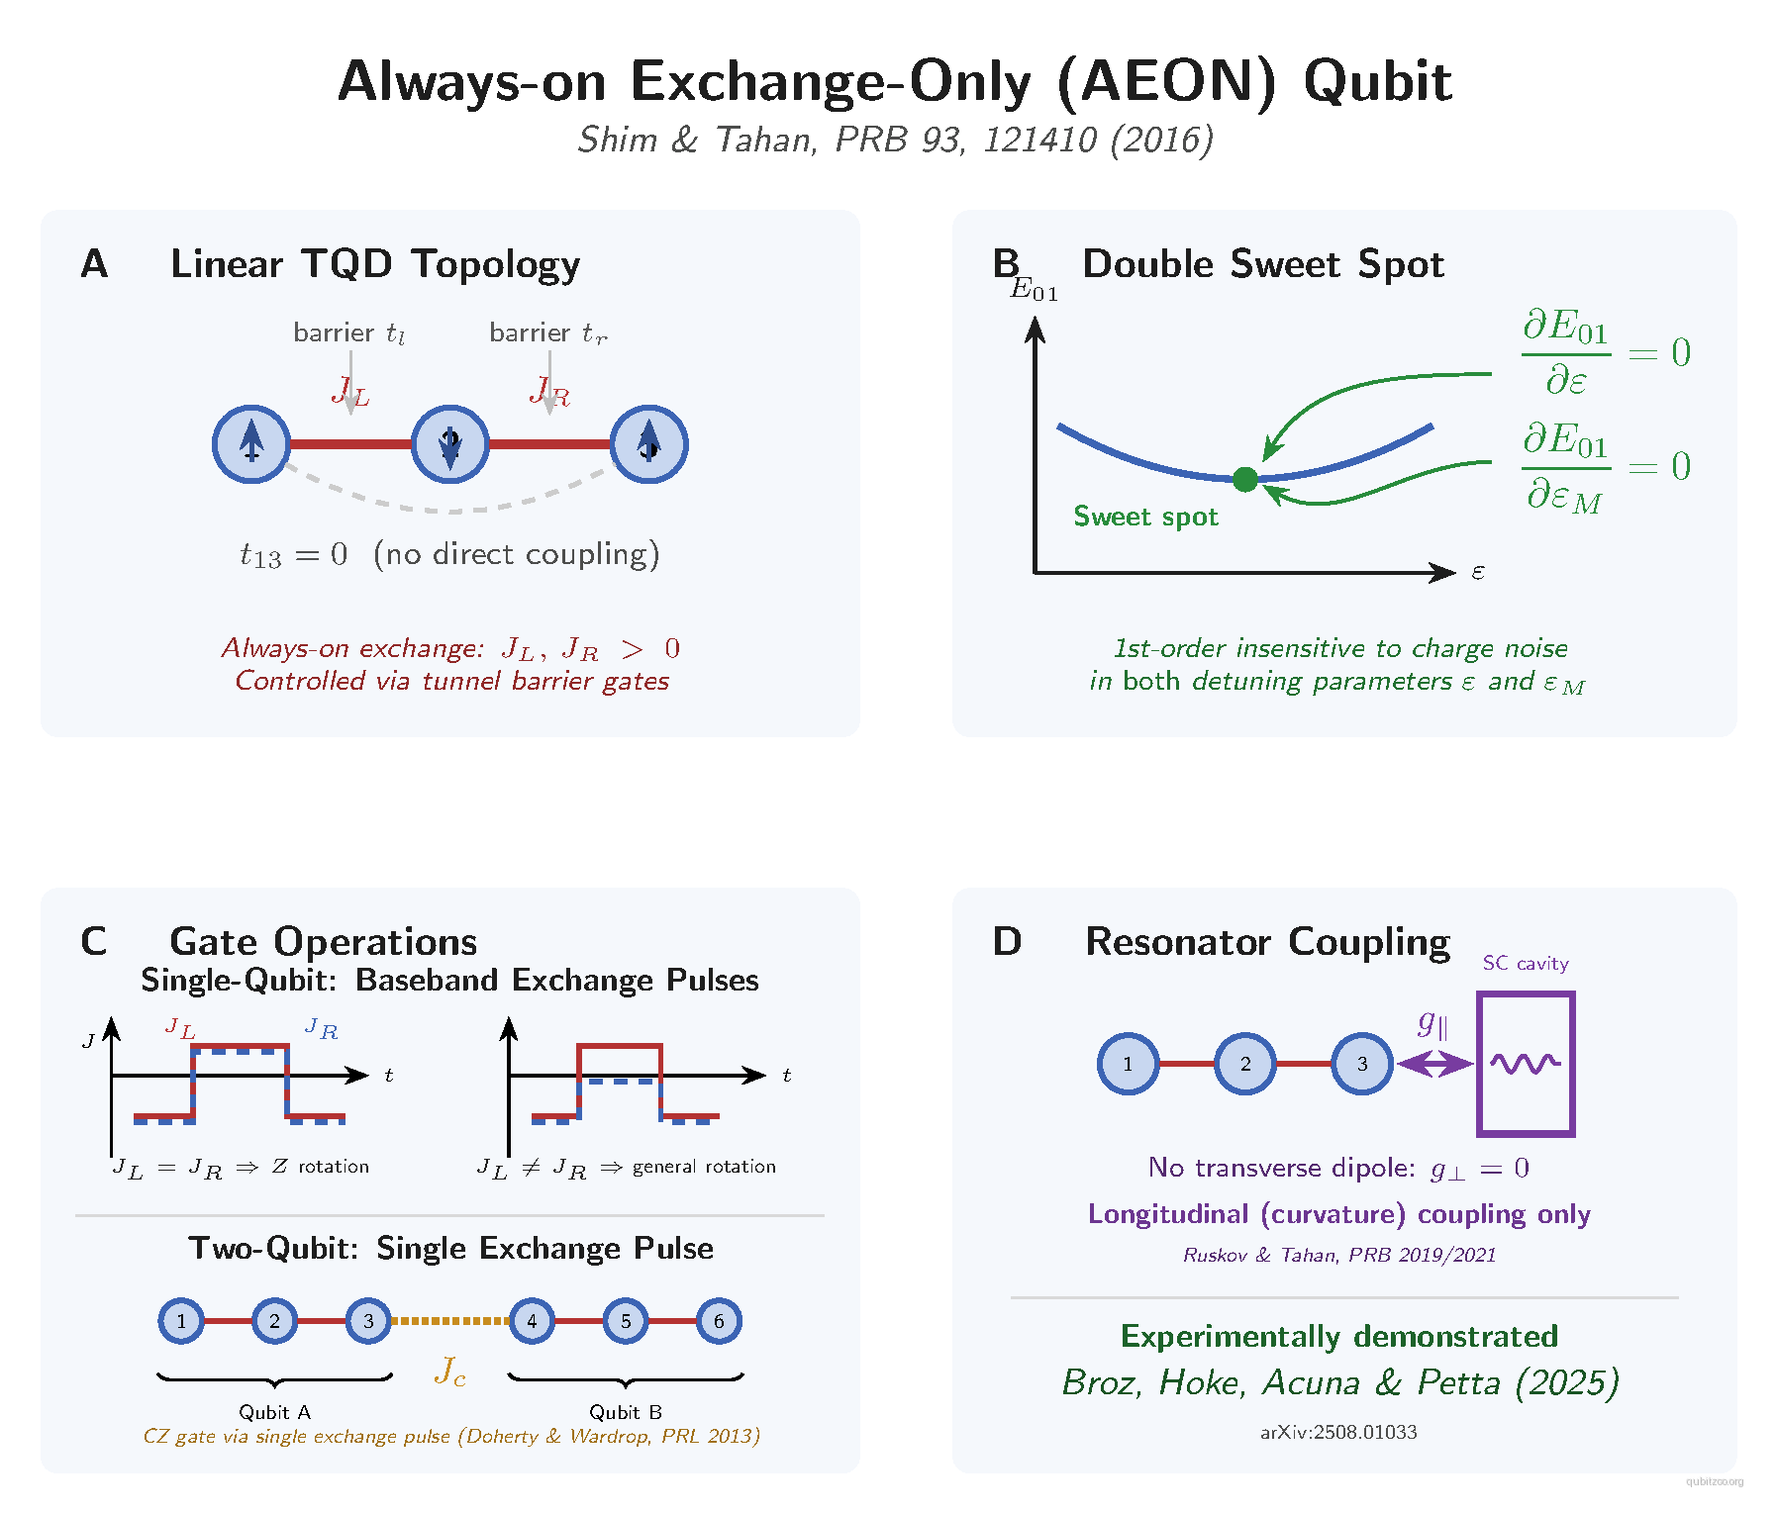
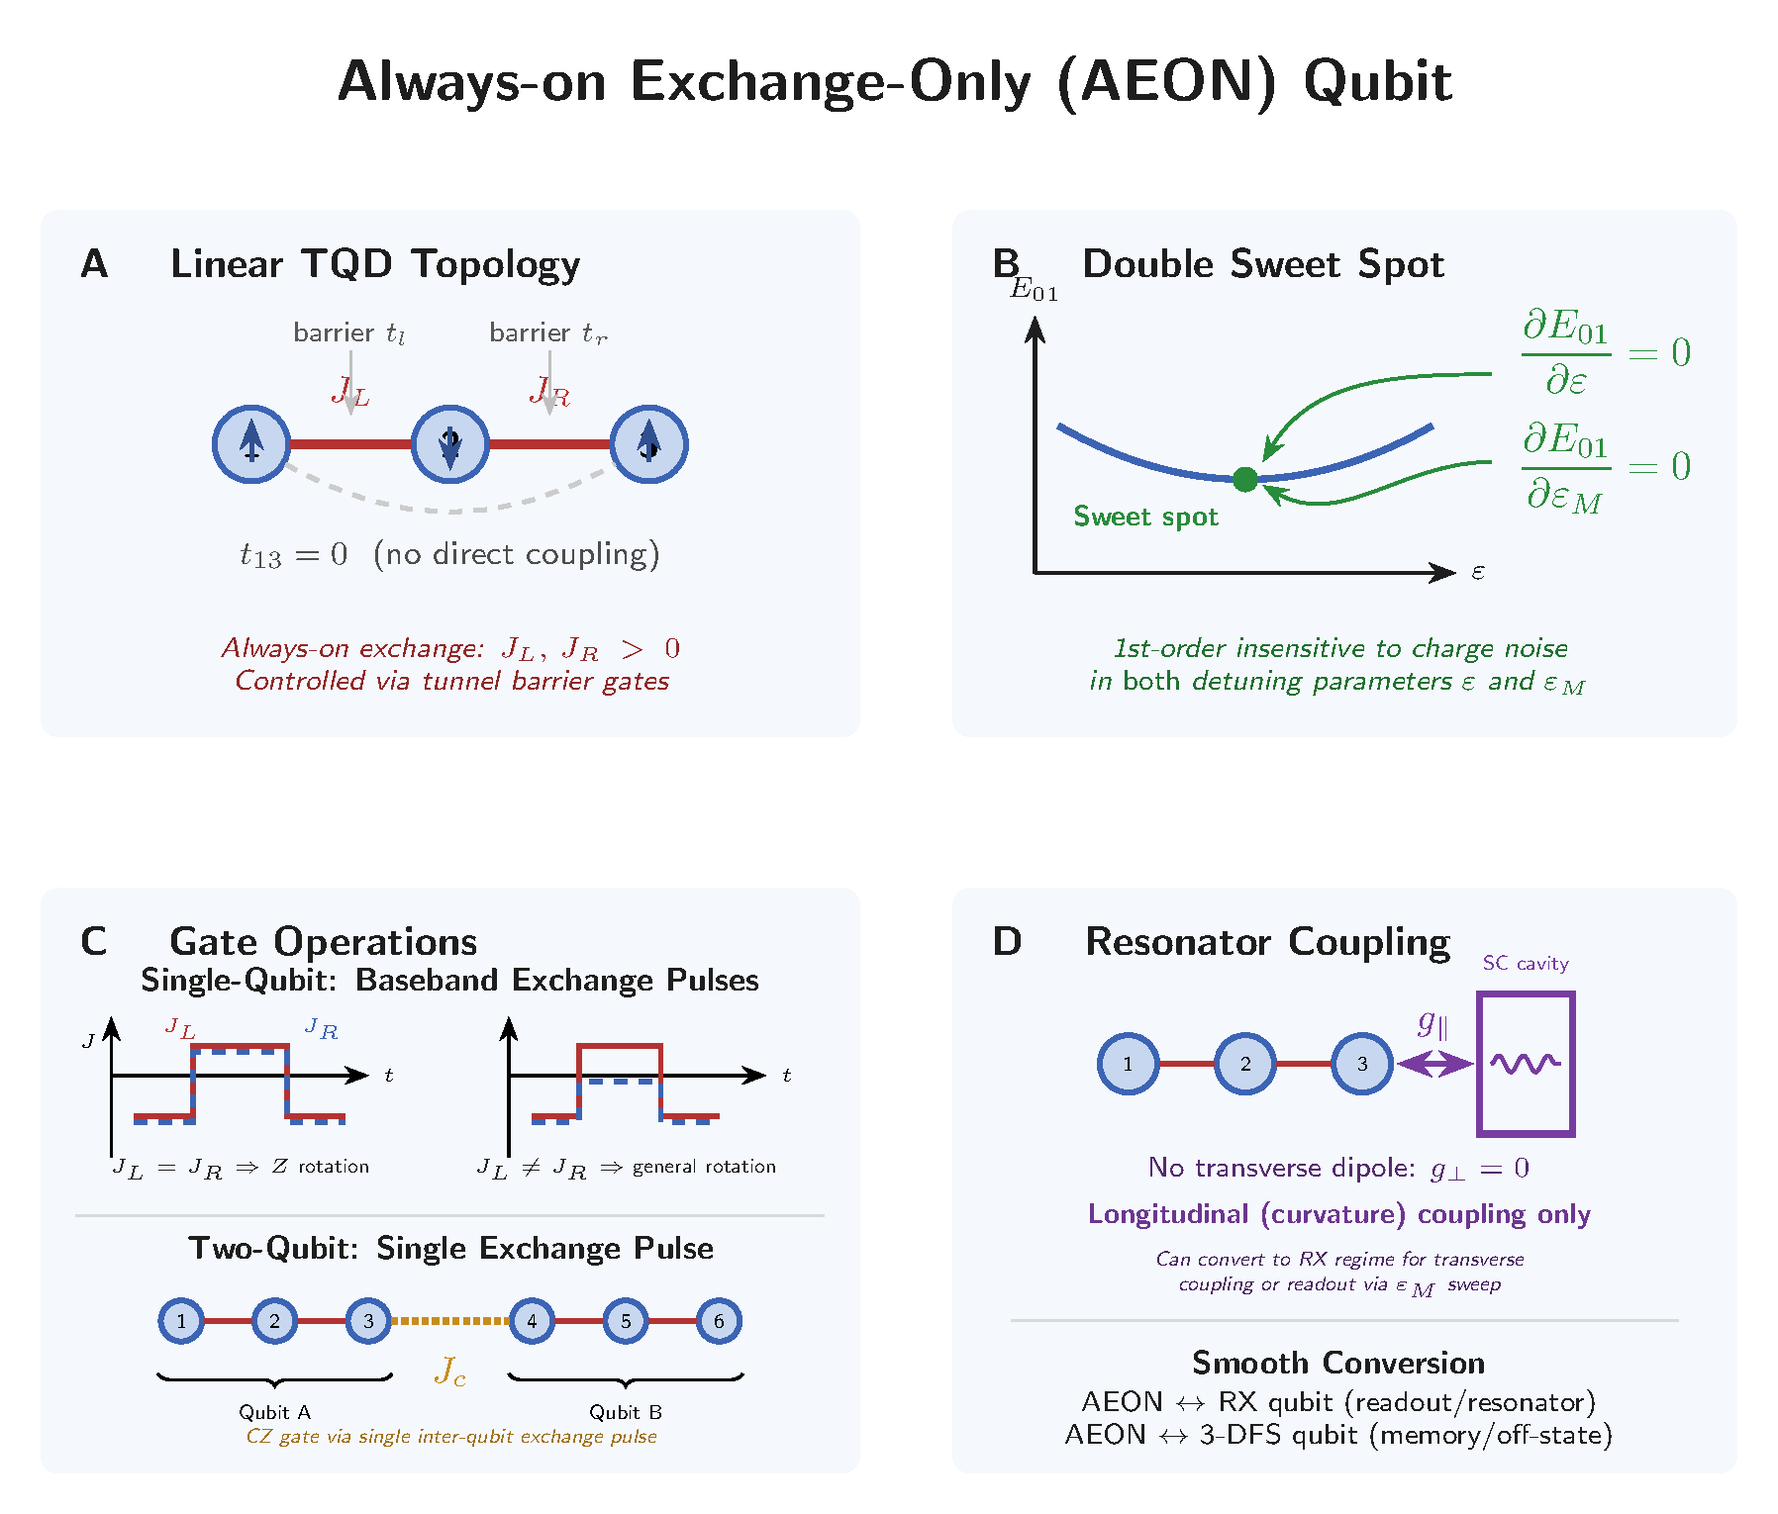
zoo: sync AEON rewrite — clean figure + expanded entry

Changed region(s): [[0.5924, 0.8294, 0.9042, 0.9523], [0.1871, 0.9216, 0.2183, 0.9523]]

diff --git a/content/Zoo/aeon-qubit.md b/content/Zoo/aeon-qubit.md
@@ -20,48 +20,106 @@ extracted_by: airtable-seed
 verified_by: scibok-manual-2026-03-18
 ---
 
-
-
-Always-on Exchange Only (AEON) is a seed entry imported from the legacy Qubit Zoo Airtable dataset.
-
-
 ## Figure
 
 ![[aeon-qubit-figure.png]]
 
 ## Description
 
-An always-on, exchange-only qubit encoded in three localized semiconductor spins arranged in a **linear triple quantum dot** (TQD) array. The two exchange couplings $J_L$ (dots 1–2) and $J_R$ (dots 2–3) are kept always on; there is **no direct coupling** between dots 1 and 3 ($t_{13} = 0$). The AEON qubit offers a true **double sweet spot** — first-order insensitivity to charge noise in *both* detuning parameters $\varepsilon$ and $\varepsilon_M$ simultaneously. Both single- and two-qubit gate operations can be performed using only baseband (DC) exchange pulses while maintaining this sweet spot. The qubit can be smoothly converted to other three-spin encoded qubits (RX, 3-DFS) for readout, coupling to a resonator, or memory.
+The Always-on Exchange-Only (AEON) qubit is a three-spin encoded qubit in a **linear triple quantum dot** (TQD) array where the nearest-neighbor exchange couplings $J_L$ (dots 1–2) and $J_R$ (dots 2–3) are kept permanently on. There is **no direct tunnel coupling** between the outer dots ($t_{13} = 0$). The qubit is encoded in the $S_\text{tot} = 1/2$ subspace of three singly-occupied quantum dots in the (1,1,1) charge configuration.
+
+The defining feature of the AEON qubit is its **double sweet spot**: the qubit frequency $E_{01}$ is first-order insensitive to charge noise in *both* independent detuning parameters $\varepsilon$ (dot 1 vs. dot 3) and $\varepsilon_M$ (dot 2 vs. average of dots 1 and 3) simultaneously. Crucially, the sweet spot position depends only on the Coulomb energies — not on the tunnel couplings $t_l$ and $t_r$ — so gates can be performed by tuning barrier gates while remaining at the sweet spot throughout.
+
+All single-qubit operations use **baseband (DC) exchange pulses** — no microwave drive is required. Two-qubit entangling gates between adjacent AEON qubits can be implemented with a **single exchange pulse**, a dramatic simplification over the 18+ sequential pairwise pulses needed for the original 3-DFS exchange-only encoding.
+
+At the sweet spot, the AEON qubit has **no transition dipole moment** ($g_\perp = 0$), meaning it does not couple transversely to a superconducting resonator. Long-range coupling requires **longitudinal (curvature) coupling** to a cavity, or adiabatic conversion to the RX qubit regime where transverse coupling is available.
+
+The qubit can be smoothly interconverted with other three-spin encodings: the **RX qubit** (for initialization, readout, and resonator coupling) and the **3-DFS exchange-only qubit** (for a true off-state/memory with all exchange couplings turned off).
 
 
 ## Hamiltonian
 
-The AEON qubit is described by a Hubbard model for a linear TQD. In the qubit subspace ($S_\text{tot} = 1/2$, $S_\text{tot}^z = 1/2$), the effective Hamiltonian reduces to an exchange-coupled Heisenberg model with **only nearest-neighbor couplings**:
+The AEON qubit is described by a Hubbard model for a linear TQD with only nearest-neighbor tunneling ($t_{13} = 0$). In the qubit subspace ($S_\text{tot} = 1/2$, $S_\text{tot}^z = 1/2$), the effective Hamiltonian reduces to:
 
 $$H_\text{eff} = J_L\,\mathbf{S}_1\!\cdot\!\mathbf{S}_2 + J_R\,\mathbf{S}_2\!\cdot\!\mathbf{S}_3$$
 
-where $J_L = 2t_l^2(\tilde{U}_1 + \tilde{U}_2')/f_l(\varepsilon, \varepsilon_M)$ and $J_R = 2t_r^2(\tilde{U}_2 + \tilde{U}_3)/f_r(\varepsilon, \varepsilon_M)$. Note: **$J_{13} = 0$** (no direct exchange between dots 1 and 3).
+where $J_L = 2t_l^2(\tilde{U}_1 + \tilde{U}_2')/f_l(\varepsilon, \varepsilon_M)$ and $J_R = 2t_r^2(\tilde{U}_2 + \tilde{U}_3)/f_r(\varepsilon, \varepsilon_M)$, with $\tilde{U}_i$ the Coulomb energy changes for double occupancy of dot $i$. **No $J_{13}$ term** appears.
 
 In the two-state qubit basis $\{|0_Q\rangle, |1_Q\rangle\}$:
 
 $$H_\text{eff} = -\frac{J}{2}\sigma_z - \frac{\sqrt{3}\,j}{2}\sigma_x$$
 
-where $J = (J_L + J_R)/2$ and $j = (J_L - J_R)/2$.
+where $J = (J_L + J_R)/2$ and $j = (J_L - J_R)/2$. The qubit energy gap is $E_{01} = \sqrt{J^2 + 3j^2} = \sqrt{J_L^2 + J_R^2 - J_L J_R}$.
 
-**Double sweet spot** — the qubit energy gap $E_{01} = \sqrt{J^2 + 3j^2}$ satisfies:
+### Double sweet spot
 
-$$\frac{\partial E_{01}}{\partial \varepsilon} = 0 \quad \text{and} \quad \frac{\partial E_{01}}{\partial \varepsilon_M} = 0$$
+The sweet spot conditions $\partial E_{01}/\partial\varepsilon = 0$ and $\partial E_{01}/\partial\varepsilon_M = 0$ yield:
 
-simultaneously, making the qubit first-order insensitive to charge noise in both detuning parameters. Crucially, the sweet spot position is **independent of the tunnel couplings** $t_l$ and $t_r$, enabling gate operations while remaining at the sweet spot.
+$$\varepsilon_\text{ss} = \tfrac{1}{4}(-\tilde{U}_1 + \tilde{U}_2' - \tilde{U}_2 + \tilde{U}_3), \qquad \varepsilon_{M,\text{ss}} = \tfrac{1}{4}(\tilde{U}_1 - \tilde{U}_2' - \tilde{U}_2 + \tilde{U}_3)$$
 
-## Motivation
+These depend only on Coulomb energies, **not** on $t_l$ or $t_r$ — enabling full gate control while remaining at the sweet spot.
 
-A spin-based qubit offering a **double sweet spot** to charge noise that enables:
 
-- **All single-qubit gates** via baseband exchange pulses at the full sweet spot (tuning barrier gates $t_l$, $t_r$; no microwave pulses needed)
-- **Two-qubit gates in a single exchange pulse** (Doherty & Wardrop 2013), versus 18+ serial pulses for the original 3-DFS exchange-only encoding
-- **No transition dipole moment** — the AEON qubit at its sweet spot has zero transverse coupling to a resonator ($g_\perp = 0$), requiring longitudinal (curvature) coupling instead (Ruskov & Tahan 2019, 2021)
-- Smooth conversion to RX or 3-DFS qubit encodings for readout, resonator coupling, or memory
+## Single-Qubit Gates
+
+All single-qubit rotations are performed via **baseband (DC) voltage pulses** on the tunnel barrier gates, modulating $J_L$ and $J_R$ simultaneously while remaining at the double sweet spot:
+
+- **$Z$ rotation**: Symmetric exchange ($J_L = J_R$, i.e., $j = 0$) → precession around $\hat{z}$
+- **General rotations**: Asymmetric exchange ($J_L \neq J_R$) → rotation around an axis in the $xz$-plane. Combined with $Z$, this gives universal single-qubit control
+- **Pauli $X$**: Can be decomposed as $X = R_{\hat{n}}(\pi) \cdot Z \cdot R_{\hat{n}}(\pi)$ with $\hat{n} = -(\hat{x} + \hat{z})/\sqrt{2}$, achieved with $t_l = (\sqrt{6} + \sqrt{2})t_r/2$
+
+No microwave pulses are needed — this is purely baseband, all-electrical control.
+
+
+## Two-Qubit Gates
+
+Two AEON qubits in a linear array (dots 1–2–3–4–5–6) are coupled via the inter-qubit exchange $J_c$ between neighboring dots (e.g., dots 3 and 4). With intra-qubit couplings always on, the effective inter-qubit Hamiltonian in the weak coupling regime ($J_c \ll J^{(A)}, J^{(B)}$) is:
+
+$$H_c = \delta J_z (\sigma_z^A + \sigma_z^B)/2 + J_{zz}\,\sigma_z^A\sigma_z^B + J_\perp(\sigma_x^A\sigma_x^B + \sigma_y^A\sigma_y^B)$$
+
+with all coefficients proportional to $J_c$. For the linear geometry, $\delta J_z / J_c = J_{zz}/J_c = 1/36$ and $J_\perp / J_c = -1/24$ when $J^{(A)} \approx J^{(B)}$.
+
+A **CPHASE/CZ gate** can be implemented with a single exchange pulse — requiring $\int J_{zz}(t)\,dt = \pi/4$. Estimated gate times range from ~20 ns (butterfly geometry with spin swaps) to a few hundred ns (linear geometry with conservative $J_c \sim 10$ MHz). This is a dramatic improvement over the 18+ sequential pairwise pulses required for the original 3-DFS encoding.
+
+The inter-qubit sweet spot condition ($\partial J_c / \partial \varepsilon_3 = \partial J_c / \partial \varepsilon_4 = 0$) can also be satisfied by tuning average dot energies, keeping both qubits and the coupler charge-noise-insensitive.
+
+
+## Resonator Coupling
+
+At the double sweet spot, the AEON qubit has **zero transition dipole moment** ($g_\perp = 0$) — it does not couple transversely to a superconducting resonator. This is both a feature (suppressed decoherence from charge noise) and a constraint (no direct cavity QED).
+
+Two strategies for long-range coupling:
+
+1. **Longitudinal (curvature) coupling** — The second derivative of the qubit frequency with respect to detuning gives a non-zero longitudinal coupling $g_\parallel$ to the cavity photon number. This enables dispersive readout and modulated longitudinal gates without leaving the sweet spot. *(Theoretical — Ruskov & Tahan 2019, 2021)*
+
+2. **Conversion to RX regime** — Adiabatically sweeping $\varepsilon_M$ converts the AEON qubit to an RX qubit, which has a large transverse dipole for cavity coupling. Readout and long-range entanglement proceed in the RX regime, then the qubit is swept back to the AEON sweet spot for computation. *(The RX-cavity strong coupling regime has been demonstrated — Landig et al., Nature 2018)*
+
+
+## Experimental Status
+
+The AEON qubit was first experimentally demonstrated by **Broz, Hoke, Acuna, and Petta (2025)** in a Si/SiGe quantum dot device:
+
+- **Platform**: Triangular QD array (note: the original proposal uses a linear TQD; the triangular geometry also supports AEON-like operation with simultaneous always-on exchange)
+- **Gate set**: Full single-qubit Clifford set with simultaneous exchange pulses
+- **Fidelity**: Average Clifford gate fidelity $F_{C1} = 99.86\%$ via blind randomized benchmarking
+- **Key advance**: First demonstration of simultaneous (non-commuting) exchange pulses for an exchange-only qubit, versus conventional sequential pairwise pulsing
+
+Two-qubit entangling gates and resonator coupling have **not yet been experimentally demonstrated** in the AEON regime.
+
+
+## Comparison with Related Encodings
+
+| Property | 3-DFS Exchange-Only | RX Qubit | AEON |
+|----------|-------------------|----------|------|
+| QD energy levels | General | $\varepsilon_2 \gg \varepsilon_1 \approx \varepsilon_3$ | $\varepsilon_1 \approx \varepsilon_2 \approx \varepsilon_3$ |
+| Sweet spot | None (DFS only) | Partial (1 of 2 detunings) | **Full** (both detunings) |
+| Single-qubit gates | 4 sequential exchange pulses | Microwave drive | 3 simultaneous baseband pulses |
+| Two-qubit gates | 18+ sequential pulses | Dipole-dipole or single exchange pulse | **Single exchange pulse** |
+| Resonator coupling | N/A | Transverse ($g_\perp$ large) | Longitudinal only ($g_\perp = 0$) |
+| Idle/memory | All exchange off | Always-on, $f_Q \sim$ 0.5–2 GHz | Exchange off (converts to 3-DFS) or always-on |
+
+*(Table adapted from Shim & Tahan 2016, Table I)*
+
 
 ## References
 
@@ -69,14 +127,23 @@ A spin-based qubit offering a **double sweet spot** to charge noise that enables
 - Y.-P. Shim and C. Tahan, "Charge-noise-insensitive gate operations for always-on, exchange-only qubits," [PRB 93, 121410(R) (2016)](https://doi.org/10.1103/PhysRevB.93.121410) — [arXiv:1602.00320](https://arxiv.org/abs/1602.00320)
 
 ### Two-qubit gates
-- A. C. Doherty and M. P. Wardrop, "Two-qubit gates for resonant exchange qubits," [PRL 111, 050503 (2013)](https://doi.org/10.1103/PhysRevLett.111.050503) — single exchange pulse CZ gate
+- A. C. Doherty and M. P. Wardrop, "Two-qubit gates for resonant exchange qubits," [PRL 111, 050503 (2013)](https://doi.org/10.1103/PhysRevLett.111.050503) — showed that always-on exchange enables CZ gate in a single inter-qubit exchange pulse
 
-### Longitudinal resonator coupling
+### Longitudinal resonator coupling (theoretical)
 - R. Ruskov and C. Tahan, "Quantum-limited measurement of spin qubits via curvature couplings to a cavity," [PRB 99, 245306 (2019)](https://doi.org/10.1103/PhysRevB.99.245306) — [arXiv:1704.05876](https://arxiv.org/abs/1704.05876)
 - R. Ruskov and C. Tahan, "Modulated longitudinal gates on encoded spin qubits via curvature couplings to a superconducting cavity," [PRB 103, 035301 (2021)](https://doi.org/10.1103/PhysRevB.103.035301) — [arXiv:2010.01233](https://arxiv.org/abs/2010.01233)
+- R. Ruskov and C. Tahan, "Longitudinal (curvature) couplings of an N-level qudit to a superconducting resonator at the adiabatic limit and beyond," [PRB 109, 245303 (2024)](https://doi.org/10.1103/PhysRevB.109.245303) — [arXiv:2312.03118](https://arxiv.org/abs/2312.03118)
+
+### RX qubit–resonator strong coupling (related experimental)
+- A. J. Landig, J. V. Koski, P. Scarlino et al., "Coherent spin–photon coupling using a resonant exchange qubit," [Nature 560, 179 (2018)](https://doi.org/10.1038/s41586-018-0365-y) — demonstrated strong coupling of RX qubit to SC cavity (~31 MHz); AEON could convert to this regime
 
 ### Experimental demonstration
-- J. D. Broz, J. C. Hoke, E. Acuna, and J. R. Petta, "Demonstration of an always-on exchange-only spin qubit," [arXiv:2508.01033 (2025)](https://arxiv.org/abs/2508.01033)
+- J. D. Broz, J. C. Hoke, E. Acuna, and J. R. Petta, "Demonstration of an always-on exchange-only spin qubit," [arXiv:2508.01033 (2025)](https://arxiv.org/abs/2508.01033) — $F_{C1} = 99.86\%$ average Clifford fidelity, Si/SiGe triangular QD array, single-qubit gates only
+
+### Background: exchange-only qubits
+- D. P. DiVincenzo, D. Bacon, J. Kempe, G. Burkard, and K. B. Whaley, "Universal quantum computation with the exchange interaction," [Nature 408, 339 (2000)](https://doi.org/10.1038/35042541) — original exchange-only qubit proposal
+- B. H. Fong and S. M. Wandzura, "Universal quantum computation and leakage reduction in the 3-qubit decoherence free subsystem code," [QIC 11, 1003 (2011)](https://doi.org/10.26421/QIC11.11-12-8) — optimized pulse sequences
+
 
 ## Linked Papers
 - [[shim-2016-aeon]]
@@ -86,37 +153,23 @@ A spin-based qubit offering a **double sweet spot** to charge noise that enables
 - [[loss-divincenzo-qubit]]
 - [[exchange-only-qubit]]
 
-## Seed Metadata
-- date_published: 2016-01-31
-
-## Physics
-
-The AEON qubit is a variant of the [[exchange-only-qubit]] designed for the realistic case where exchange couplings between adjacent dots cannot be fully turned off. Unlike the parent architecture, the AEON qubit operates in a **linear triple quantum dot** with only nearest-neighbor exchange ($J_L$ between dots 1–2 and $J_R$ between dots 2–3; **no $J_{13}$**).
-
-The qubit operates at a symmetric operating point (SOP) where the qubit energy is first-order insensitive to charge noise in **both** detuning parameters $\varepsilon$ and $\varepsilon_M$ — a true double sweet spot. This sweet spot is independent of the tunneling elements $t_l$ and $t_r$, enabling:
-- **Single-qubit gates** via baseband (DC) exchange pulses tuning the barrier gates ($Z$ rotation: $J_L = J_R$; general rotations: $J_L \neq J_R$)
-- **Two-qubit gates** via a single exchange pulse between adjacent encoded qubits (Doherty & Wardrop 2013), reducing the 18+ sequential pulses of standard 3-DFS to one
-- **No transverse dipole coupling** to resonators ($g_\perp = 0$), necessitating longitudinal (curvature) coupling (Ruskov & Tahan 2019, 2021)
-- Smooth conversion to RX qubit (for resonator coupling/readout) or 3-DFS qubit (for memory)
-
-The AEON qubit was experimentally demonstrated by the Petta group (Broz et al. 2025) in a Si/SiGe triple quantum dot device.
-
 ## Key Metrics
 
 | Metric | Value | Notes | Fidelity reference |
 |--------|-------|-------|--------------------|
-| Qubit coherence $T_1$ | >1 s | Spin relaxation | [Shulman et al. 2012](https://doi.org/10.1126/science.1217692) |
-| Qubit coherence $T_2$ | 10–100 μs | Enhanced by sweet-spot operation | [Shim & Tahan 2016](https://doi.org/10.1103/PhysRevB.93.121410) |
-| Gate fidelity (1Q) | 99–99.5% | Baseband exchange pulses at sweet spot | [Shim & Tahan 2016](https://doi.org/10.1103/PhysRevB.93.121410) |
-| Gate fidelity (2Q) | 95–99% | Single exchange pulse CZ | [Doherty & Wardrop 2013](https://doi.org/10.1103/PhysRevLett.111.050503) |
-| Gate time (1Q) | 1–50 ns | DC barrier gate pulses | — |
-| Gate time (2Q) | ~20–200 ns | Single exchange pulse | [Doherty & Wardrop 2013](https://doi.org/10.1103/PhysRevLett.111.050503) |
+| Qubit coherence $T_1$ | >1 s | Spin relaxation in Si | [Shulman et al. 2012](https://doi.org/10.1126/science.1217692) |
+| Qubit coherence $T_2$ | 10–100 μs | Enhanced by double sweet-spot operation | [Shim & Tahan 2016](https://doi.org/10.1103/PhysRevB.93.121410) |
+| Gate fidelity (1Q) | **99.86%** | Average Clifford fidelity, blind RB (experimental) | [Broz et al. 2025](https://arxiv.org/abs/2508.01033) |
+| Gate fidelity (1Q, theory) | 99–99.5% | Baseband exchange at sweet spot (theoretical) | [Shim & Tahan 2016](https://doi.org/10.1103/PhysRevB.93.121410) |
+| Gate fidelity (2Q) | 95–99% | Single exchange pulse CZ (theoretical estimate) | [Doherty & Wardrop 2013](https://doi.org/10.1103/PhysRevLett.111.050503) |
+| Gate time (1Q) | 1–50 ns | DC barrier gate pulses | [Shim & Tahan 2016](https://doi.org/10.1103/PhysRevB.93.121410) |
+| Gate time (2Q) | ~20–200 ns | Single exchange pulse (geometry-dependent) | [Shim & Tahan 2016](https://doi.org/10.1103/PhysRevB.93.121410) |
 | Operating temperature | 20–100 mK | Si/SiGe or GaAs | — |
 | Qubit footprint | ~150–300 nm pitch | 3 dots per logical qubit | — |
 
 ## Related Qubits
 
-- [[exchange-only-qubit]] — parent architecture
+- [[exchange-only-qubit]] — parent architecture (sequential pulses, no sweet spot)
 - [[singlet-triplet-qubit]] — two-spin cousin
 - [[loss-divincenzo-qubit]] — single-spin ancestor
-- [[rx-qubit]] — related always-on 3-spin qubit (partial sweet spot, microwave control)
+- [[rx-qubit]] — related always-on 3-spin qubit (partial sweet spot, microwave control, transverse cavity coupling)
